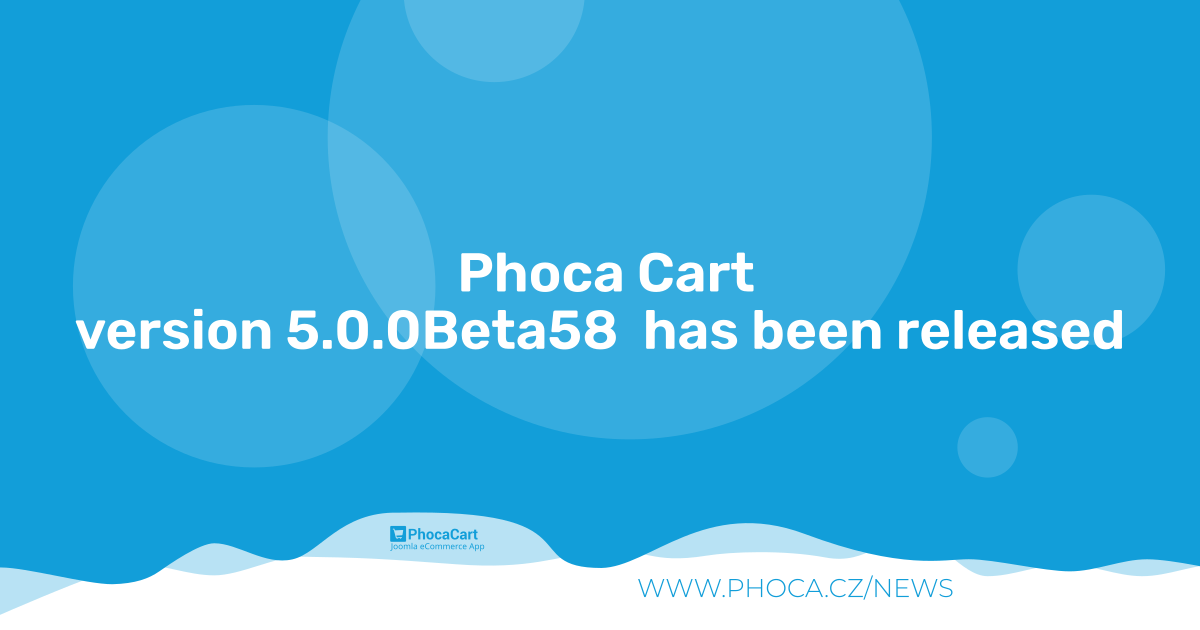
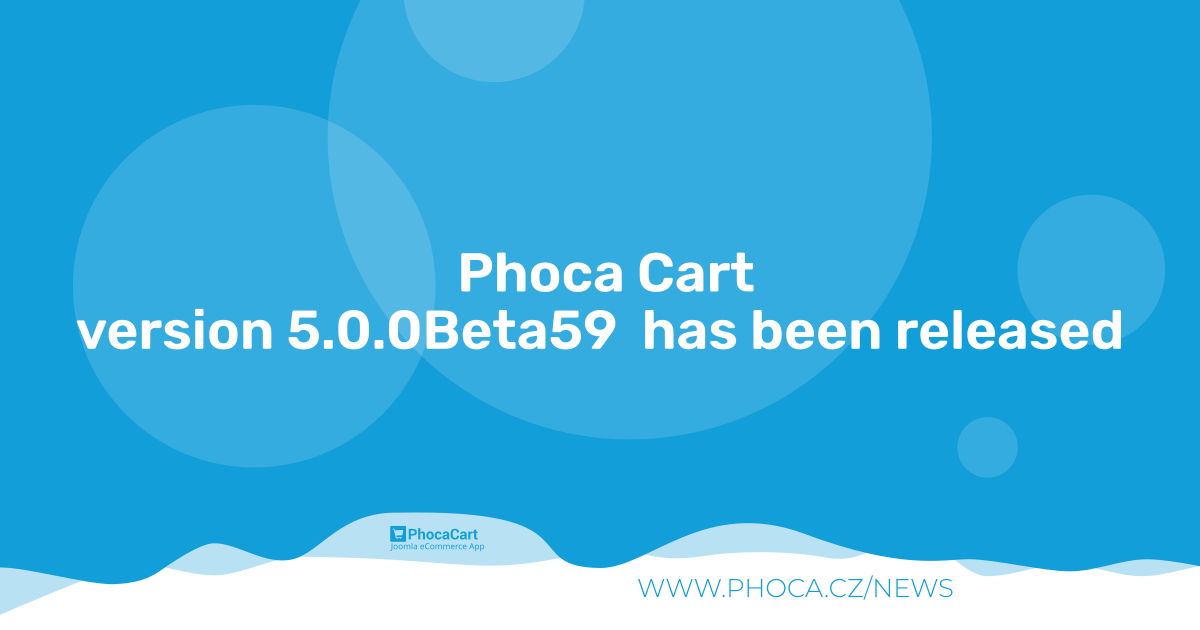
5.0.0Beta59

Changed region(s): [[0.3392, 0.4825, 0.925, 0.573], [0.0617, 0.4825, 0.3083, 0.5429]]

diff --git a/README.MD b/README.MD
@@ -124,7 +124,7 @@ Phoca Cart is e-commerce extension - powerful shopping cart for Joomla! CMS. Pho
 
 ## Version (Joomla! 3.x)
 
-3.0.8
+3.5.8
 
 ## Version (Joomla! 4.x)
 
@@ -132,7 +132,7 @@ Phoca Cart is e-commerce extension - powerful shopping cart for Joomla! CMS. Pho
 
 ## Version (Joomla! 5.x)
 
-5.0.0Beta58
+5.0.0Beta59
 
 
 
